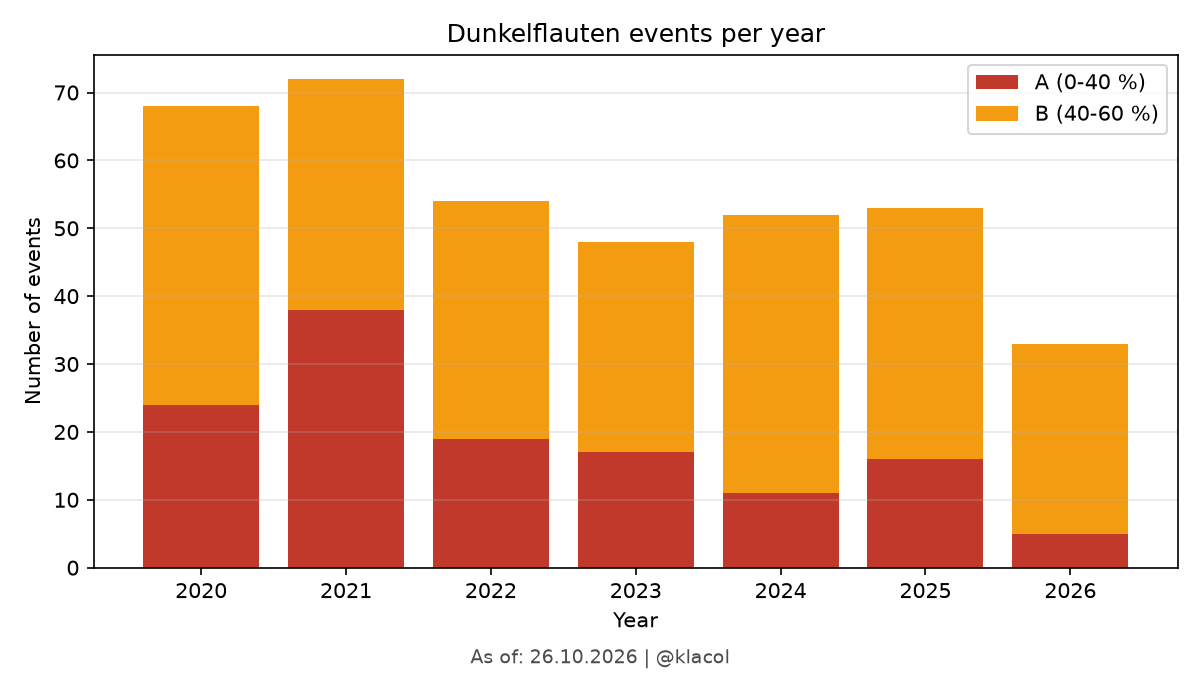
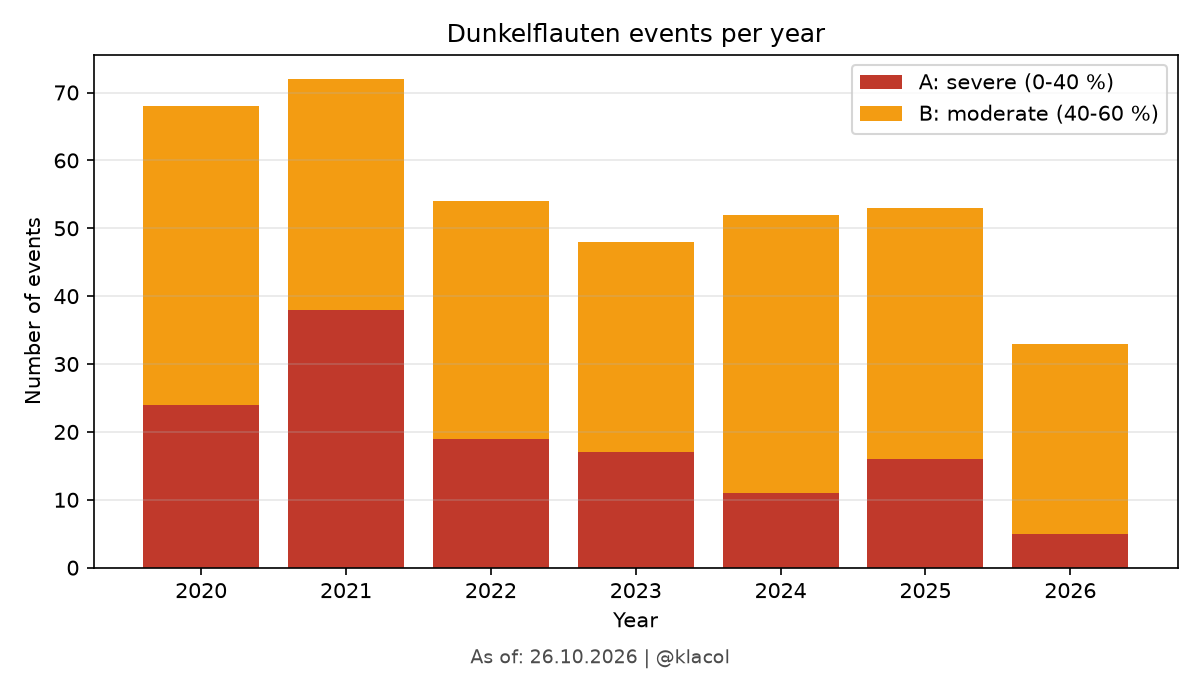
Charts

Changed region(s): [[0.7092, 0.0933, 0.9558, 0.2178]]

diff --git a/src/dunkelflauten/charts.py b/src/dunkelflauten/charts.py
@@ -60,8 +60,8 @@ def _stacked_bar_chart(
     path: Path,
 ) -> None:
     fig, ax = plt.subplots(figsize=(8, 4.5))
-    ax.bar(years, a_values, label="A (0-40 %)", color=CATEGORY_COLORS["A"])
-    ax.bar(years, b_values, bottom=a_values, label="B (40-60 %)", color=CATEGORY_COLORS["B"])
+    ax.bar(years, a_values, label="A: severe (0-40 %)", color=CATEGORY_COLORS["A"])
+    ax.bar(years, b_values, bottom=a_values, label="B: moderate (40-60 %)", color=CATEGORY_COLORS["B"])
     ax.set_title(title)
     ax.set_xlabel("Year")
     ax.set_ylabel(ylabel)
